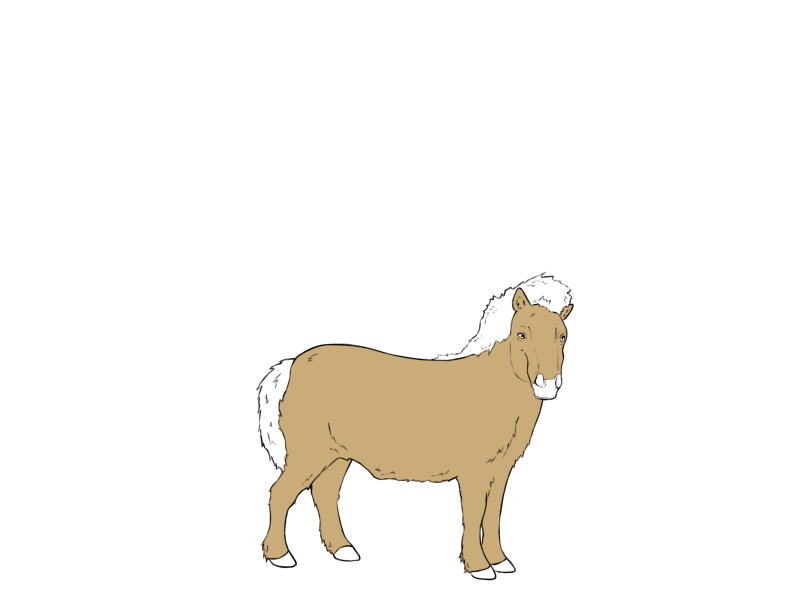
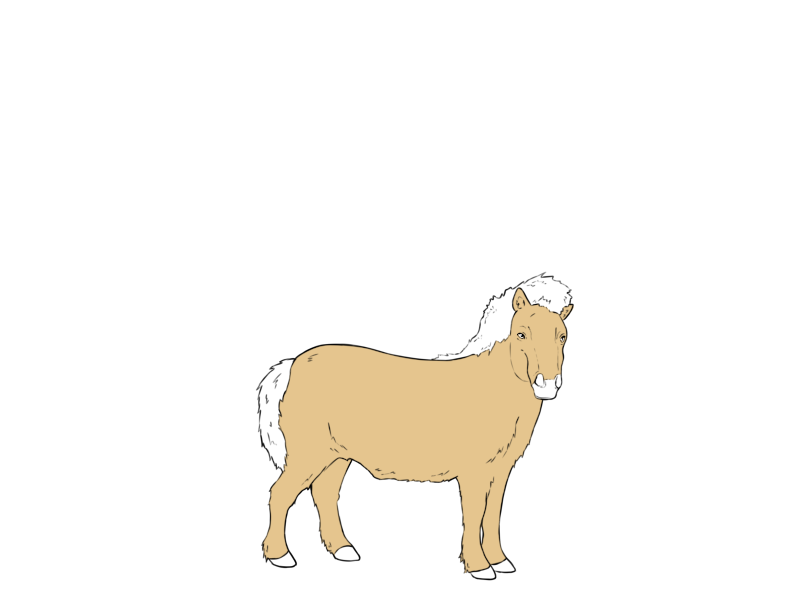
gff

Changed region(s): [[0.3125, 0.48, 0.7188, 0.96]]

diff --git a/app/Http/Controllers/ReproductionController.php b/app/Http/Controllers/ReproductionController.php
@@ -527,7 +527,8 @@ class ReproductionController extends Controller
                     {
                       $mushroom = Couleur::where('nom','mushroom')->first();
                       $champagne = Couleur::where('nom','champagneor')->first();
-                      if (in_array($mushroom, $dilue_couleurs) || in_array($champagne, $dilue_couleurs))
+                      $abricot =  Couleur::where('nom','abricot')->first();
+                      if (in_array($mushroom, $dilue_couleurs) || in_array($champagne, $dilue_couleurs) || in_array($abricot, $dilue_couleurs))
                       {
                       $image = Image::where('chemin','crinsblancs')->first();
                       $animal->Image()->attach($image->id);

diff --git a/database/seeds/AnimauxTableSeeder.php b/database/seeds/AnimauxTableSeeder.php
@@ -2084,7 +2084,7 @@ class AnimauxTableSeeder extends Seeder
                 'race_id' => 3,
                 'sexe' => 'jeune femelle',
                 'date_achat' => NULL,
-                'date_naissance' => NULL,
+                'date_naissance' => '1968-07-31',
                 'a_vendre' => 0,
                 'prix' => NULL,
                 'elevage_id' => 5,
@@ -2494,7 +2494,7 @@ class AnimauxTableSeeder extends Seeder
                 'updated_at' => NULL,
                 'nom' => 'Copain',
                 'affixe_id' => 26,
-                'couleur' => NULL,
+                'couleur' => 'alezan crins lavés',
                 'base' => NULL,
                 'taille_cm' => 131,
                 'race_id' => 5,

diff --git a/database/seeds/GenotypesTableSeeder.php b/database/seeds/GenotypesTableSeeder.php
@@ -4434,8 +4434,8 @@ class GenotypesTableSeeder extends Seeder
                 'updated_at' => NULL,
                 'animal_id' => 119,
                 'allele_p_id' => 8,
-                'allele_m_id' => 7,
-                'locus_id' => 3,
+                'allele_m_id' => 47,
+                'locus_id' => 26,
             ),
             442 => 
             array (
